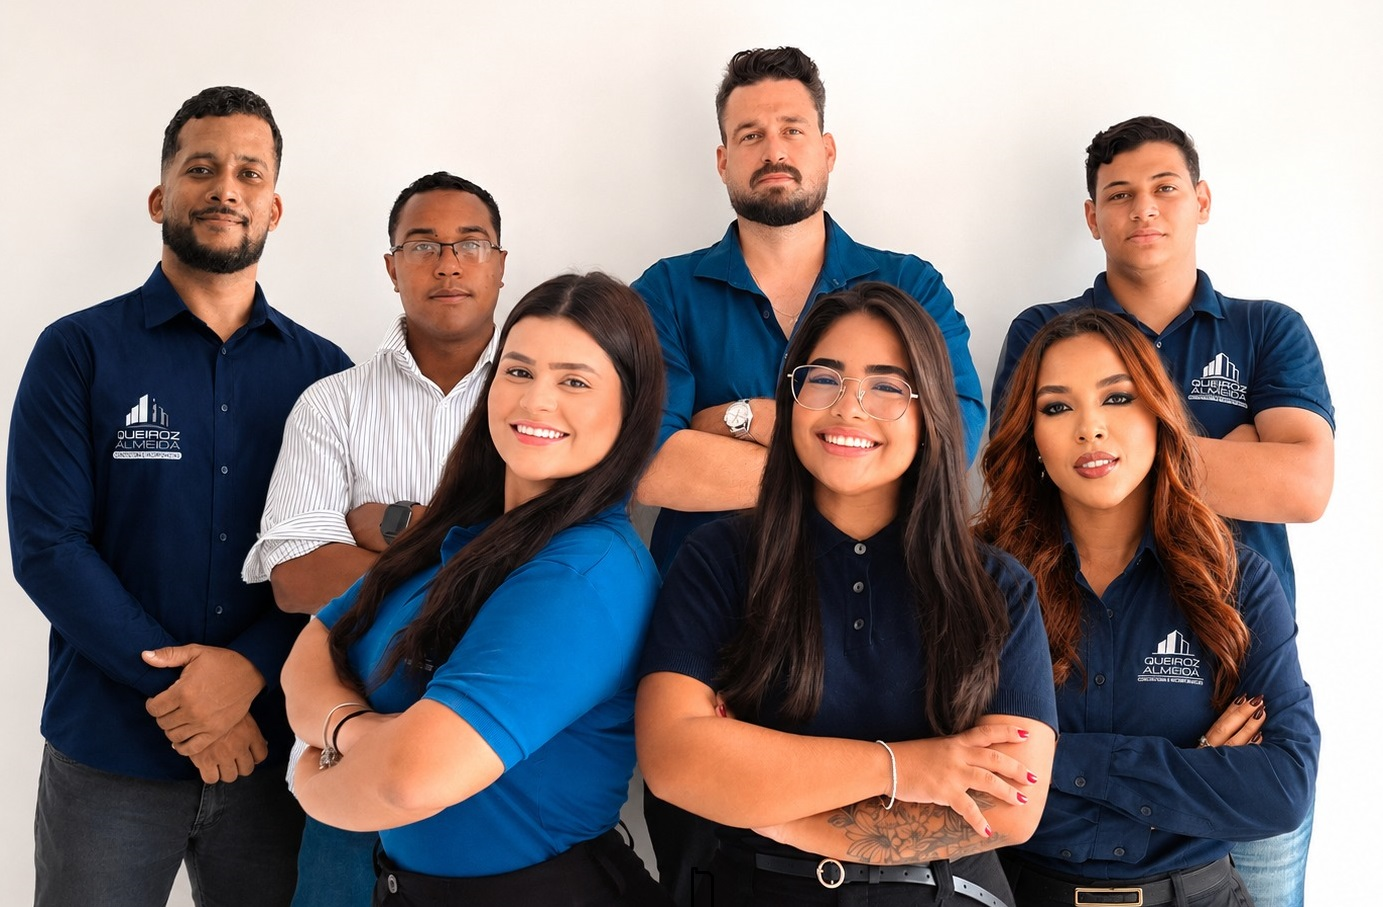
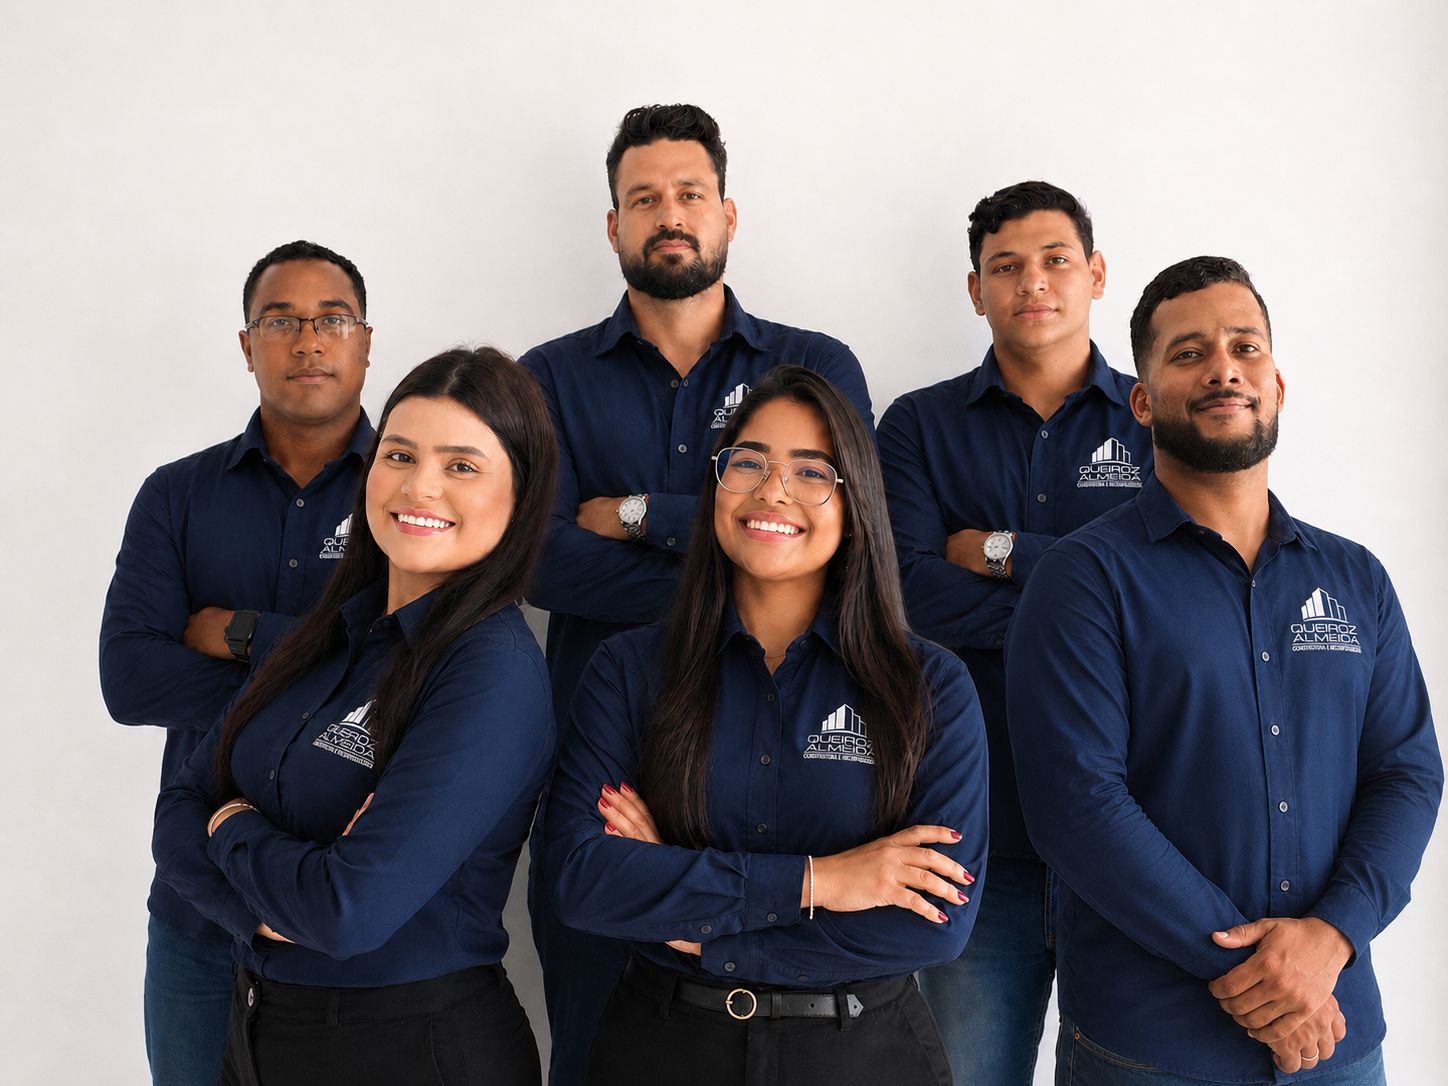
feat: update team photo and adjust size

diff --git a/packages/frontend/components/public/QuemSomos.tsx b/packages/frontend/components/public/QuemSomos.tsx
@@ -179,7 +179,7 @@ export function QuemSomos() {
           whileInView={{ opacity: 1, y: 0 }}
           viewport={{ once: true }}
           transition={{ duration: 1, ease: [0.22, 1, 0.36, 1], delay: 0.5 }}
-          className="relative rounded-[2.5rem] overflow-hidden shadow-2xl group border border-brand-navy/5 mb-32 max-w-5xl mx-auto"
+          className="relative rounded-[2.5rem] overflow-hidden shadow-2xl group border border-brand-navy/5 mb-32 max-w-4xl mx-auto"
         >
           <Image
             src="/foto-equipe.jpeg"
